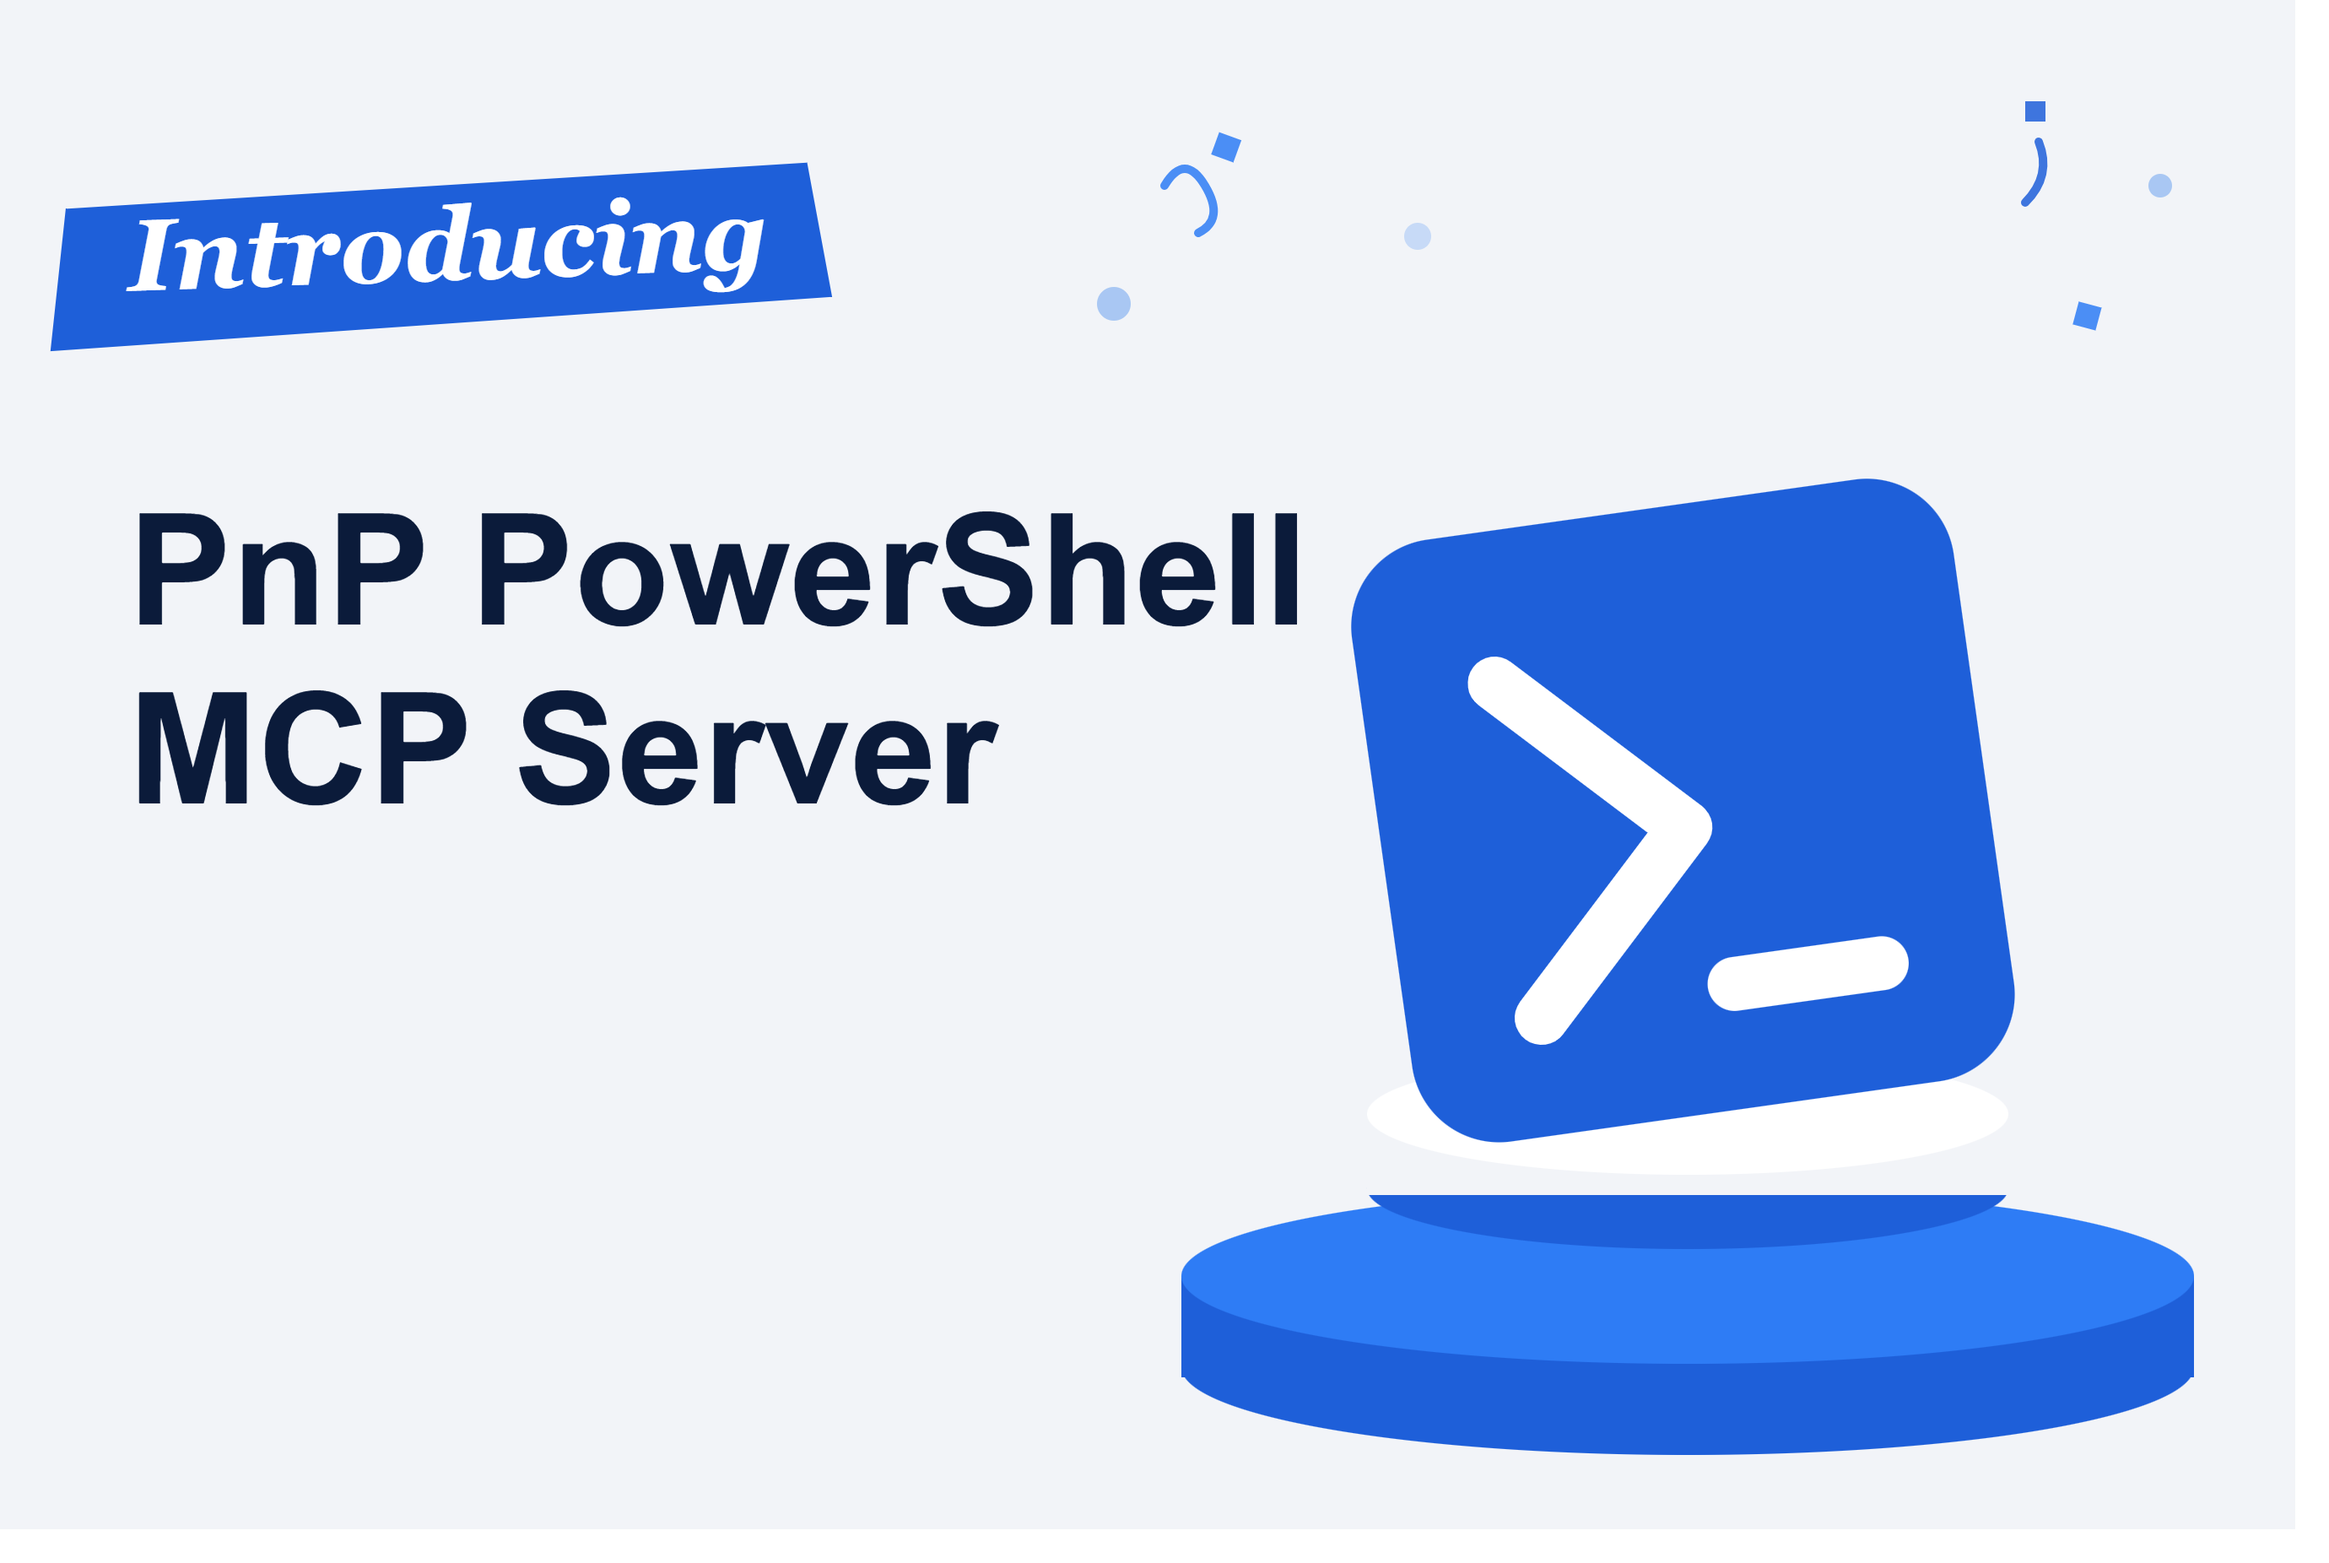
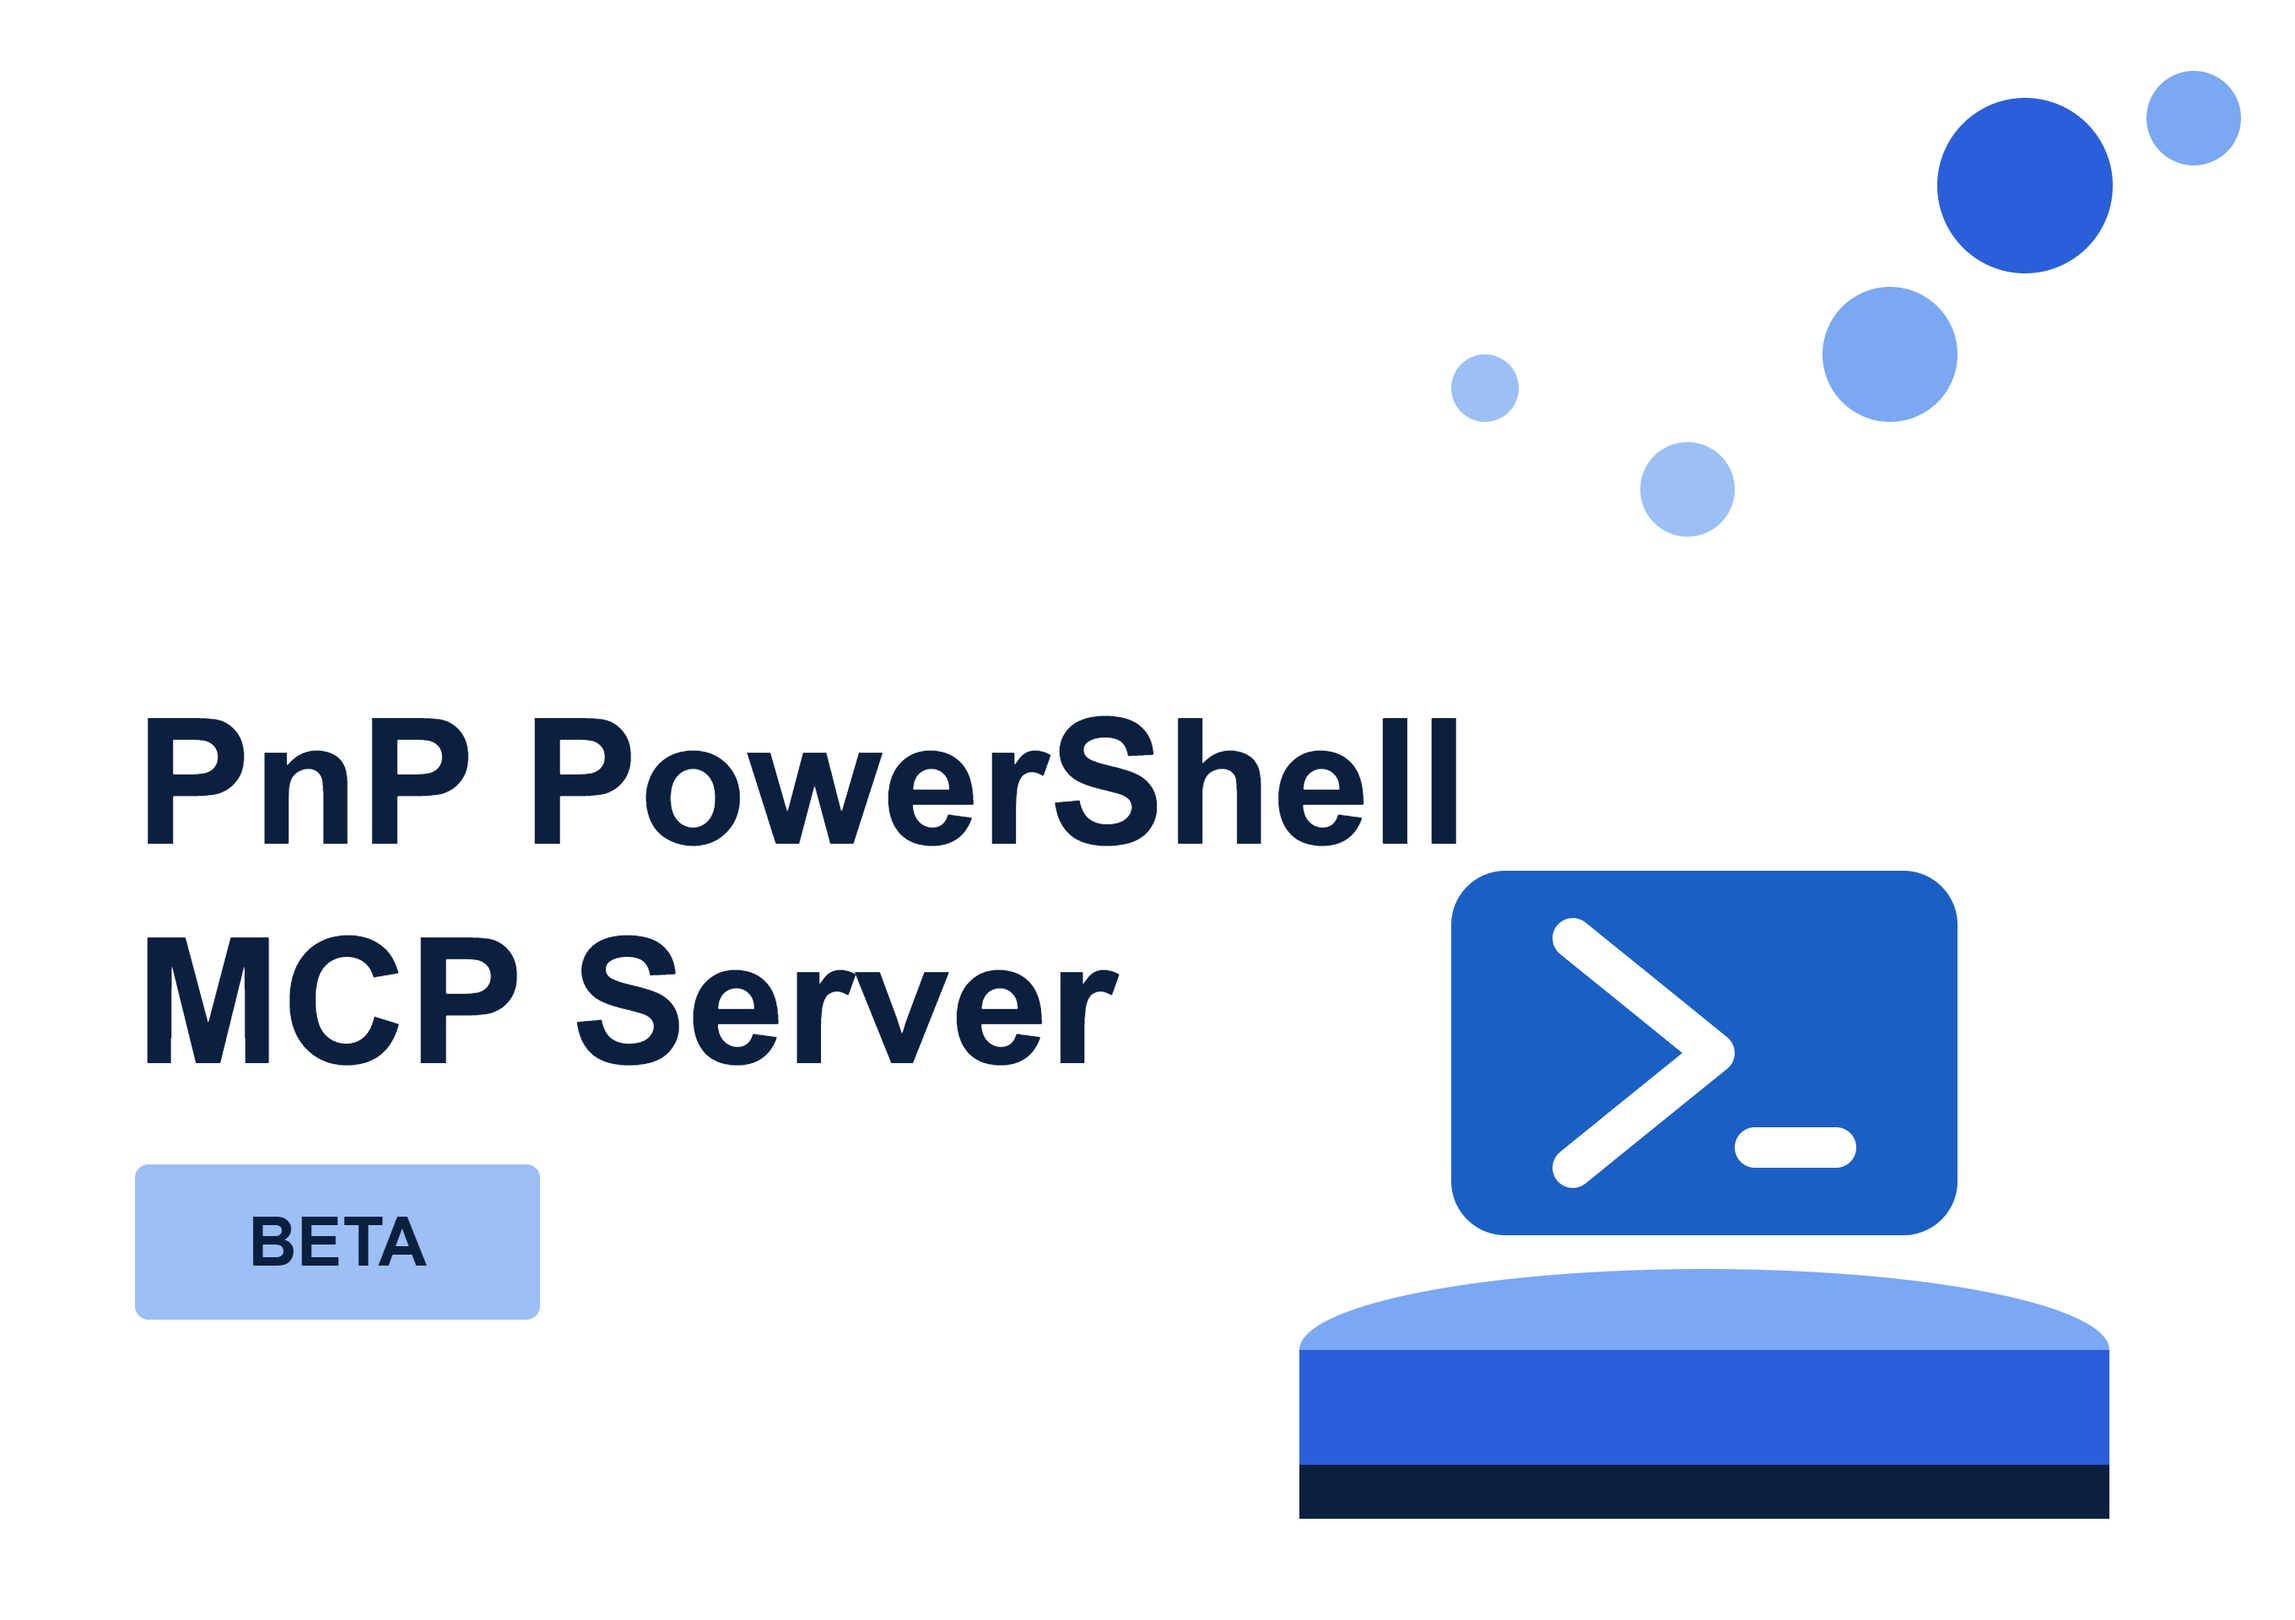
content change v3

diff --git a/content/pnp-powershell/pnp-powershell-mcp-server/index.md b/content/pnp-powershell/pnp-powershell-mcp-server/index.md
@@ -1,6 +1,6 @@
 ---
 title: Introducing the PnP PowerShell MCP Server
-summary: The PnP PowerShell MCP Server turns your favourite AI assistant into a PnP PowerShell copilot, describe what you want in plain English, and watch it run the cmdlets, write the scripts, and dig up community samples for you.
+summary: The PnP PowerShell MCP Server (super beta!) turns your favourite AI assistant into a PnP PowerShell copilot. Describe what you want in plain English, and watch it run the cmdlets, write the scripts, and dig up community samples for you. Help us shape it—we'd love your feedback!
 date: 2026-08-24T19:09:00.000Z
 author: Nishkalank Bezawada
 githubname: NishkalankBezawada
@@ -20,11 +20,13 @@ tags:
 type: trending
 ---
 
-## 🤖 Say hello to your new PnP PowerShell MCP Server
+## 🤖 Say hello to your new PnP PowerShell MCP Server (Super Beta! 🚀)
 
-Ever wished you could just *tell* PnP PowerShell what you want, instead of hunting through 800+ cmdlets and their parameter sets? Now you can. 🎉
+> ⚠ **This is super beta and evolving.** It's not production-ready yet, but we'd love for you to try it out, push it to its limits, and help us shape what it becomes. Your feedback and ideas are what make this better.
 
-The **PnP PowerShell MCP Server** turns your favourite AI assistant like GitHub Copilot, Claude, Cursor, and more into a PnP PowerShell copilot. Type a plain english request, and it figures out the right chain of cmdlets, runs them against your connected tenant, and hands you back the result. No more digging through docs to remember whether it's `-Identity` or `-List`, no more copy-pasting snippets from old scripts. Just describe the outcome you want.
+Ever wished you could just *tell* PnP PowerShell what you want, instead of hunting through 800+ cmdlets and their parameter sets? Now you can—*experimentally*. 🎉
+
+The **PnP PowerShell MCP Server** turns your favourite AI assistant like GitHub Copilot, Claude, Cursor, and more into a PnP PowerShell copilot. Type a plain English request, and it figures out the right chain of cmdlets, runs them against your connected tenant, and hands you back the result. No more digging through docs to remember whether it's `-Identity` or `-List`, no more copy-pasting snippets from old scripts. Just describe the outcome you want.
 
 ![PnP PowerShell MCP Server](images/pnp-powershell-mcp-hero.png)
 
@@ -32,9 +34,9 @@ It doesn't stop at running commands, either. It can search the community's [PnP 
 
 ## 🧩 So what actually is this thing?
 
-The **Model Context Protocol (MCP)** is an open standard that lets AI assistants talk to external tools in a consistent way. The PnP PowerShell MCP Server is one of those tools a small **local (stdio) MCP server** that runs on your machine and shells out to the PnP PowerShell module you already have installed.
+The **Model Context Protocol (MCP)** is an open standard that lets AI assistants talk to external tools in a consistent way. The PnP PowerShell MCP Server is an **experimental implementation**, a small **local (stdio) MCP server** that runs on your machine and shells out to the PnP PowerShell module you already have installed.
 
-That means it reuses *your* sign-in and *your* connection, it never authenticates on your behalf, and it never sends your tenant data anywhere else. Think of it as a thin, trustworthy layer that lets your AI client drive PnP PowerShell for you, safely.
+That means it reuses *your* sign-in and *your* connection, it never authenticates on your behalf, and it never sends your tenant data anywhere else. Think of it as a thin, trustworthy layer that lets your AI client drive PnP PowerShell for you, safely. Just keep in mind: we're still figuring out the best way to do this, and your feedback helps us get there.
 
 ## ✨ Why you'll want this in your toolbox
 
@@ -172,15 +174,16 @@ For most work you never think about sessions. If you need to work against **two 
 * **One command at a time per session.** A second call against a busy session waits, then reports the session is busy. To genuinely run two things at once, use two different session names.
 * **Reuse the connection.** Don't re-run `Connect-PnPOnline` before every command; the agent checks `pnp_get_connection_status` first and reuses the existing connection.
 
-## 💬 Give it a try. We'd love your feedback
+## 💬 Help us shape this tool. We need your input! 🙌
 
-The PnP PowerShell MCP Server is open source and community-driven, and it genuinely gets better with every person who tries it. So go on:
+This is where your voice matters. The PnP PowerShell MCP Server is **in active development** and genuinely evolves with every piece of feedback from the community. We're learning what works, what doesn't, and what should come next—and that can only happen with people like you trying it out.
 
-* 👉 **Try it out** and manage Microsoft 365 using natural language
-* 👉 **Report any issues or bugs** you encounter
-* 👉 **Share feedback, suggestions, and feature requests**
+* 👉 **Try it out** and manage Microsoft 365 using natural language—tell us what breaks, what surprises you, and what should work differently
+* 👉 **Report bugs and edge cases** you hit (that's gold for us right now)
+* 👉 **Share ideas for features** and improvements—even half-baked ones are valuable
+* 👉 **Show us what you build** with it—proof of concept or wild experiment, we'd love to see it
 
-Everything you need, full installation instructions for every client, and the source code is right here on GitHub: [pnp/pnp-powershell-mcp-server](https://github.com/pnp/pnp-powershell-mcp-server). Star it, try it, and let us know what you build with it!
+Everything you need, full installation instructions for every client, and the source code is right here on GitHub: [pnp/pnp-powershell-mcp-server](https://github.com/pnp/pnp-powershell-mcp-server). Star it, try it, break it, and tell us how to make it better!
 
 ## Need more information?
 
